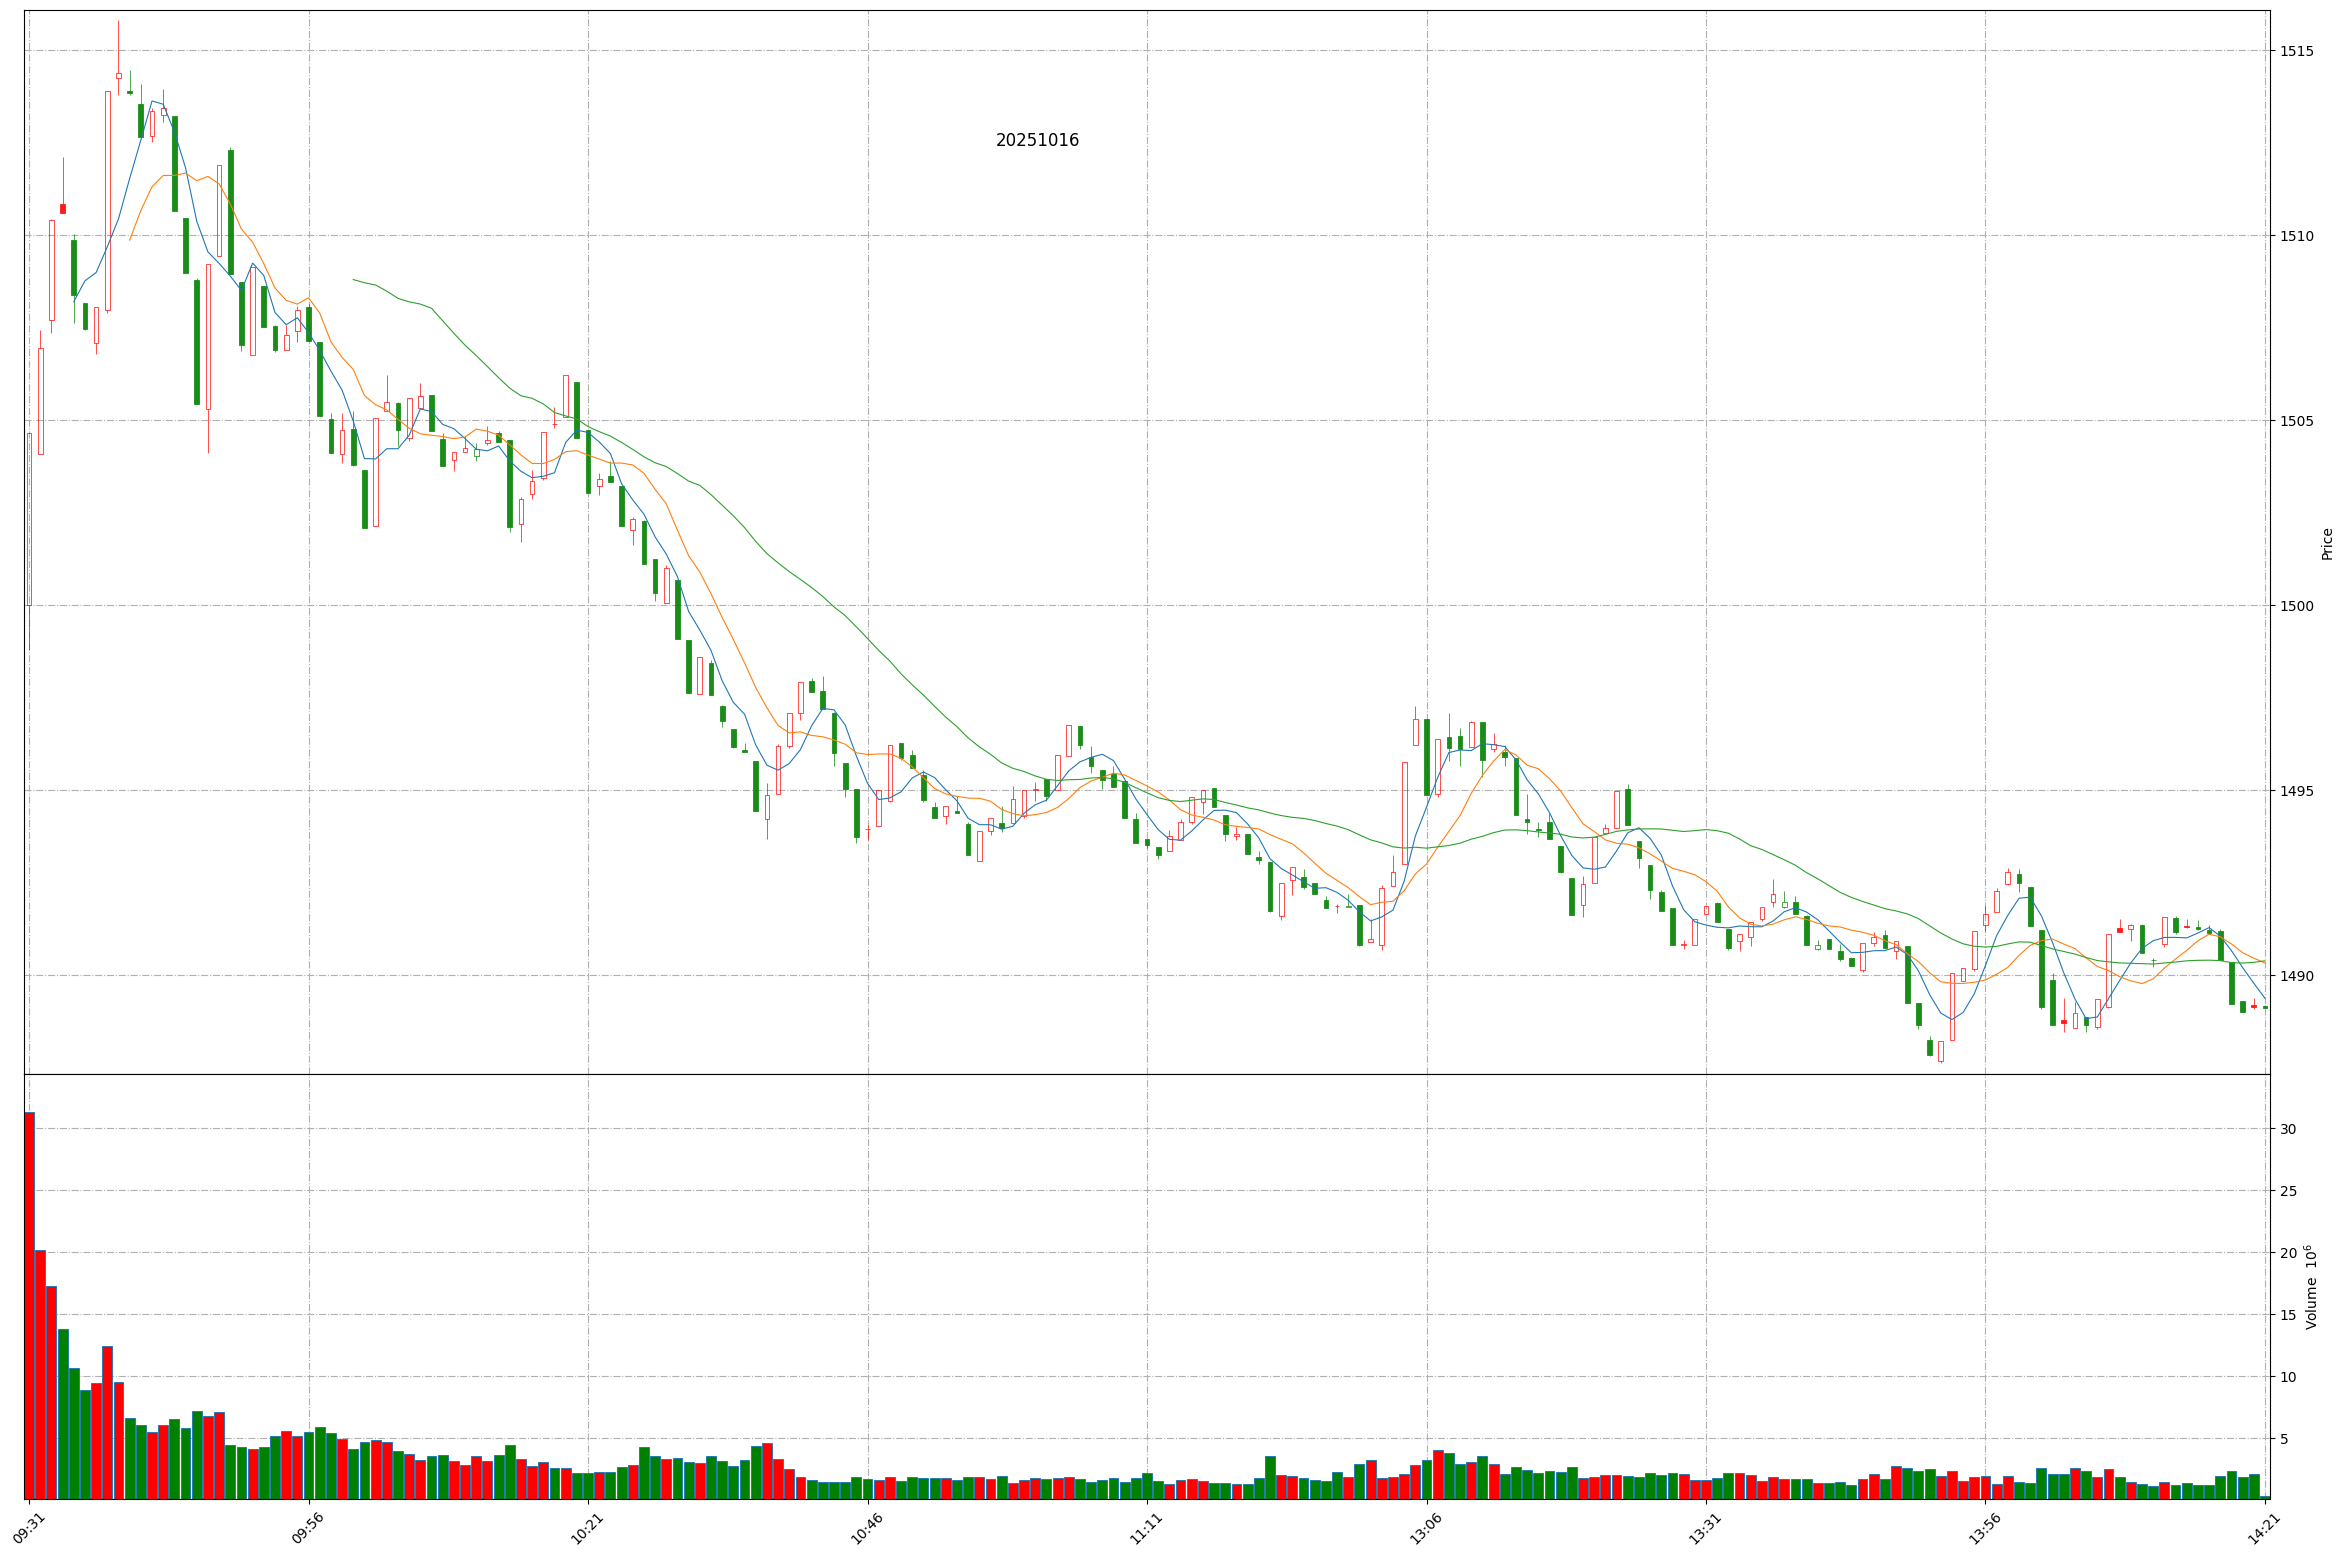
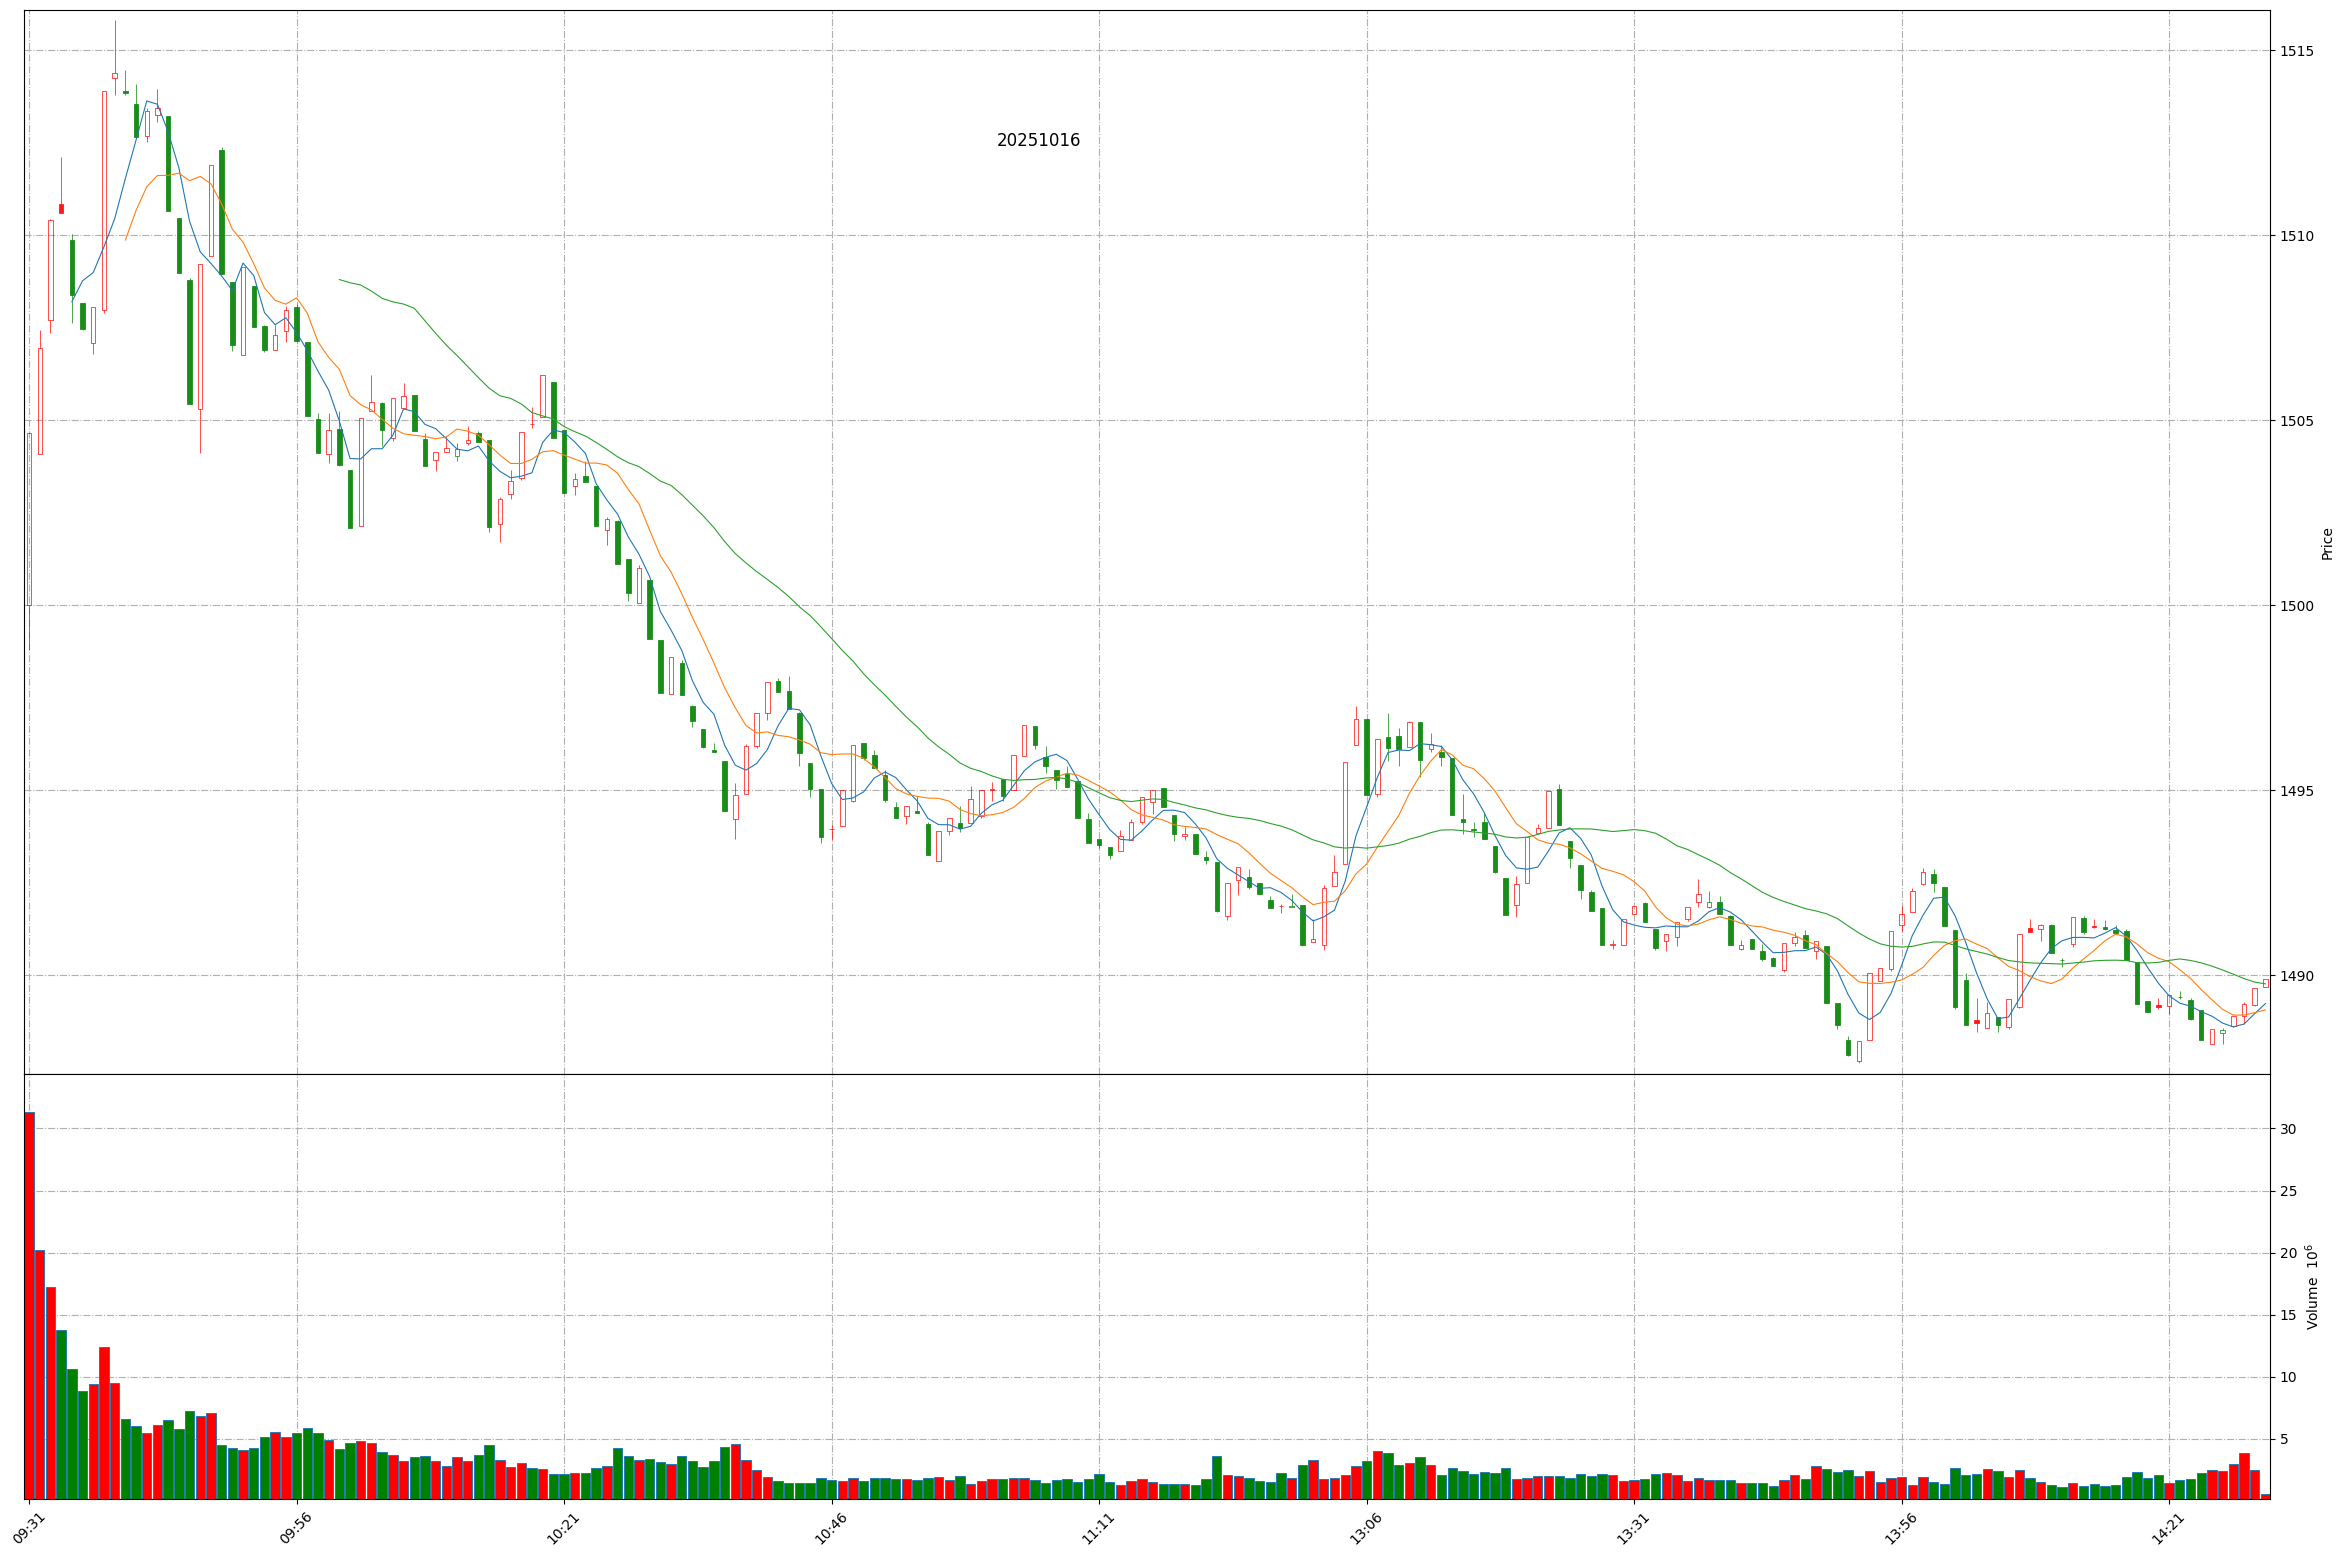
Github action update at 2025-10-16 14:29:34.

Changed region(s): [[0.0311, 0.0617, 0.9654, 0.6782], [0.0, 0.8632, 0.9654, 0.9865]]

diff --git a/README.md b/README.md
@@ -1,11 +1,11 @@
 
 # Daily-A-share-market-quotes 每日 A 股指数（5min 更新）- 20251016
 
-### 上证指数 20251016 14:20
+### 上证指数 20251016 14:29
 ![](./fig/2025/10/20251016-sh000001.png)
 
-### 深证成指 20251016 14:20
+### 深证成指 20251016 14:29
 ![](./fig/2025/10/20251016-sz399001.png)
 
-### 北证50 20251016 14:20
+### 北证50 20251016 14:29
 ![](./fig/2025/10/20251016-bj899050.png)
